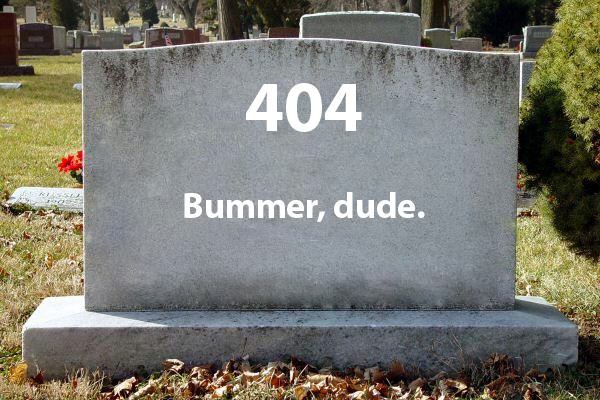
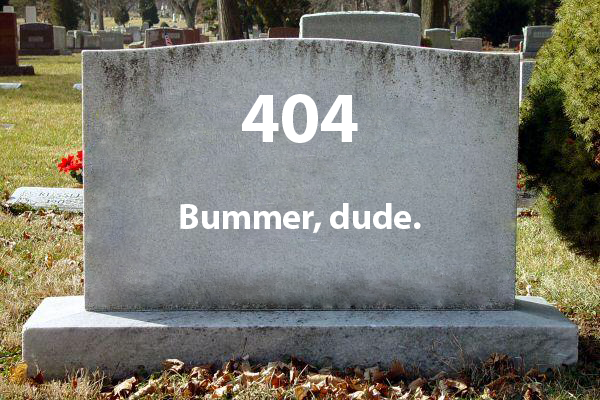
working on 404 page

Changed region(s): [[0.3, 0.48, 0.72, 0.6], [0.39, 0.21, 0.6, 0.36]]

diff --git a/views/404.php b/views/404.php
@@ -6,13 +6,11 @@
     </head>
 
     <body>
-        <div class="container">
-            <section>
-                <h1 class="section-title">404 Error</h1>
-            </section>
-
-            <img src="img/tombstone.png" alt="404">
-
+        <br>
+        <div class="row">
+            <div class="col push-s1">
+                <img src="img/tombstone.png" alt="404">
+            </div>
         </div>
     </body>
 </html>
